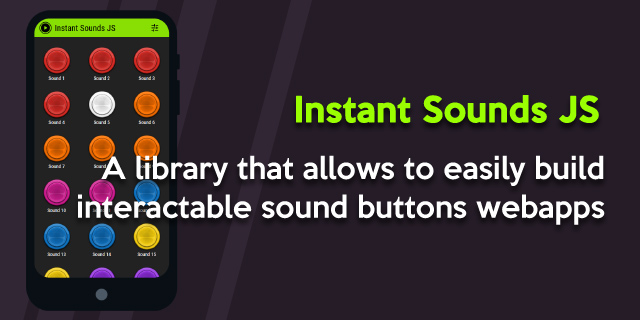
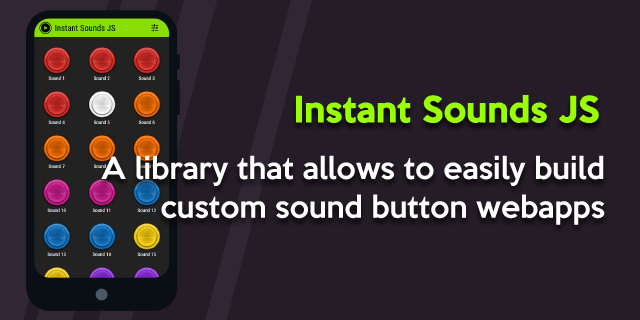
improved project description

Changed region(s): [[0.125, 0.5938, 0.75, 0.6875]]

diff --git a/index.html b/index.html
@@ -21,7 +21,7 @@
 	<meta name="twitter:domain" content="marcrobledo.com">
 	<meta property="og:title" content="Instant Sounds JS">
 	<meta name="twitter:title" content="Instant Sounds JS">
-	<meta name="twitter:description" content="A library that allows to build websites with custom interactable sound buttons.">
+	<meta name="twitter:description" content="A library that allows to easily build custom sound button webapps">
 	<meta property="og:image" content="https://www.marcrobledo.com/instant-sounds-js/assets/thumbnail.jpg">
 	<meta name="twitter:image" content="https://www.marcrobledo.com/instant-sounds-js/assets/thumbnail.jpg">
 	<meta name="twitter:card" content="photo">

diff --git a/_cache_service_worker.js b/_cache_service_worker.js
@@ -14,7 +14,7 @@
 */
 
 var PRECACHE_ID='instant-sounds-js';
-var PRECACHE_VERSION='v1f';
+var PRECACHE_VERSION='v1g';
 var PRECACHE_URLS=[
 	'index.html','./',
 	'manifest.json',
